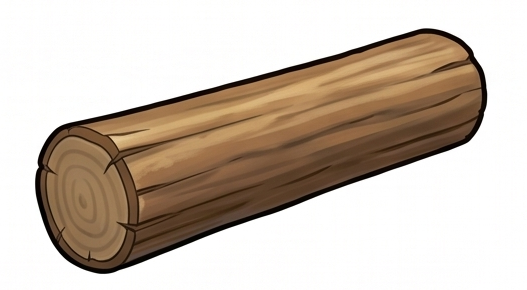
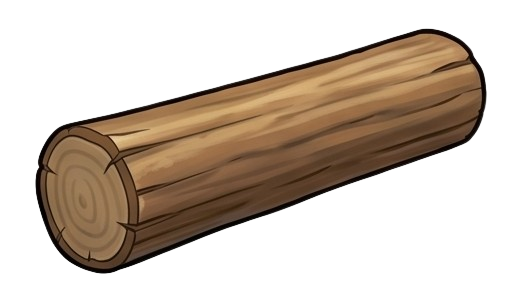
fix: stabilize bisan white porcelain completion

diff --git a/src/components/intro/IntroScreen.module.css b/src/components/intro/IntroScreen.module.css
@@ -49,153 +49,6 @@
   position: relative;
   z-index: 2;
   transform-style: preserve-3d;
-  overflow: hidden;
-}
-
-.card::before {
-  /* 낡은 서류철 질감 (은은한 잉크 텍스처 + 얼룩) */
-  content: '';
-  position: absolute;
-  inset: 0;
-  pointer-events: none;
-  background-image:
-    radial-gradient(rgba(74, 55, 40, 0.08) 1px, transparent 1px),
-    linear-gradient(to bottom, rgba(255, 255, 255, 0.15), rgba(0, 0, 0, 0)),
-    url('/assets/images/items/ink_background.png');
-  background-size: 26px 26px, 100% 100%, cover;
-  background-position: 0 0, 0 0, center;
-  opacity: 0.12;
-  mix-blend-mode: multiply;
-}
-
-.decor {
-  position: absolute;
-  inset: 0;
-  pointer-events: none;
-  z-index: 1;
-}
-
-.tapeTL,
-.tapeTR {
-  position: absolute;
-  width: 86px;
-  height: 34px;
-  background: rgba(255, 255, 255, 0.55);
-  border: 1px solid rgba(74, 55, 40, 0.18);
-  box-shadow: 0 10px 22px rgba(74, 55, 40, 0.12);
-  opacity: 0.9;
-}
-
-.tapeTL {
-  left: -12px;
-  top: 8px;
-  transform: rotate(-10deg);
-}
-
-.tapeTR {
-  right: -14px;
-  top: 18px;
-  transform: rotate(12deg);
-}
-
-.clip {
-  position: absolute;
-  right: 10px;
-  top: 62px;
-  width: 32px;
-  height: 38px;
-  border-radius: 10px 10px 16px 16px;
-  border: 3px solid rgba(74, 55, 40, 0.55);
-  background: rgba(74, 55, 40, 0.08);
-  transform: rotate(8deg);
-}
-
-.clip::after {
-  content: '';
-  position: absolute;
-  inset: 8px 7px auto 7px;
-  height: 14px;
-  border-radius: 10px;
-  border: 3px solid rgba(74, 55, 40, 0.45);
-  background: transparent;
-}
-
-.polaroid {
-  position: absolute;
-  left: 10px;
-  bottom: 8px;
-  width: 108px;
-  padding: 8px 8px 18px;
-  border-radius: 14px;
-  background: rgba(255, 255, 255, 0.92);
-  border: 2px solid rgba(74, 55, 40, 0.22);
-  box-shadow: 0 14px 30px rgba(74, 55, 40, 0.18);
-  transform: rotate(-6deg);
-}
-
-.polaroid img {
-  width: 100%;
-  height: 72px;
-  object-fit: cover;
-  border-radius: 10px;
-  border: 1px solid rgba(74, 55, 40, 0.18);
-  display: block;
-}
-
-.polaroidCap {
-  margin-top: 6px;
-  font-size: 10px;
-  font-weight: 900;
-  letter-spacing: -0.1px;
-  opacity: 0.8;
-  text-align: center;
-}
-
-.topSecret {
-  position: absolute;
-  left: 12px;
-  top: 10px;
-  padding: 6px 10px;
-  border-radius: 999px;
-  background: rgba(217, 83, 79, 0.92);
-  color: white;
-  font-weight: 900;
-  font-size: 11px;
-  letter-spacing: 0.6px;
-  box-shadow: 0 10px 24px rgba(217, 83, 79, 0.22), 0 10px 26px rgba(74, 55, 40, 0.18);
-  transform: rotate(-8deg);
-}
-
-.header {
-  position: relative;
-  z-index: 2;
-  display: flex;
-  gap: 10px;
-  align-items: center;
-}
-
-.emblem {
-  width: 44px;
-  height: 44px;
-  border-radius: 16px;
-  border: 2px solid rgba(74, 55, 40, 0.25);
-  background: rgba(244, 235, 217, 0.55);
-  display: grid;
-  place-items: center;
-  box-shadow: 0 10px 22px rgba(74, 55, 40, 0.12);
-}
-
-.secretTitle {
-  font-size: 20px;
-  font-weight: 900;
-  letter-spacing: -0.4px;
-}
-
-.secretSub {
-  margin-top: 2px;
-  font-size: 12px;
-  font-weight: 900;
-  opacity: 0.78;
 }
 
 .noteOpen {
@@ -240,26 +93,6 @@
   box-shadow: 0 14px 34px rgba(217, 83, 79, 0.22), 0 18px 44px rgba(74, 55, 40, 0.22);
   animation: pulse 1.2s ease-in-out infinite;
   transition: transform 120ms ease, box-shadow 160ms ease;
-  position: relative;
-  overflow: hidden;
-  display: inline-flex;
-  align-items: center;
-  justify-content: center;
-  gap: 10px;
-}
-
-.startBtn::after {
-  /* Shine 효과 */
-  content: '';
-  position: absolute;
-  top: -20%;
-  left: -35%;
-  width: 40%;
-  height: 140%;
-  background: linear-gradient(to right, rgba(255, 255, 255, 0), rgba(255, 255, 255, 0.38), rgba(255, 255, 255, 0));
-  transform: rotate(18deg);
-  animation: shine 1.9s ease-in-out infinite;
-  pointer-events: none;
 }
 
 .startBtn:hover {
@@ -268,25 +101,6 @@
 
 .startBtn:active {
   transform: translateY(1px);
-}
-
-.startIcon {
-  display: inline-flex;
-  align-items: center;
-  justify-content: center;
-  width: 36px;
-  height: 36px;
-  border-radius: 999px;
-  background: rgba(255, 255, 255, 0.18);
-  border: 1px solid rgba(255, 255, 255, 0.25);
-}
-
-.startHint {
-  margin-top: 10px;
-  font-size: 12px;
-  font-weight: 900;
-  opacity: 0.8;
-  text-shadow: 0 8px 18px rgba(74, 55, 40, 0.12);
 }
 
 .title {
@@ -496,23 +310,5 @@
   100% {
     transform: perspective(900px) rotateY(0deg) translateX(0);
     opacity: 1;
-  }
-}
-
-@keyframes shine {
-  0% {
-    transform: translateX(-120%) rotate(18deg);
-    opacity: 0;
-  }
-  30% {
-    opacity: 1;
-  }
-  60% {
-    transform: translateX(420%) rotate(18deg);
-    opacity: 0;
-  }
-  100% {
-    transform: translateX(420%) rotate(18deg);
-    opacity: 0;
   }
 }

diff --git a/src/components/intro/IntroScreen.tsx b/src/components/intro/IntroScreen.tsx
@@ -92,38 +92,7 @@ export default function IntroScreen() {
       >
         {step === 1 && (
           <>
-            {/* 장식 레이어(극비 서류철 / 다꾸 느낌) */}
-            <div className={styles.decor} aria-hidden="true">
-              <div className={styles.tapeTL} />
-              <div className={styles.tapeTR} />
-              <div className={styles.clip} />
-              <div className={styles.polaroid}>
-                <img src="/assets/images/relic_bridge_3d.png" alt="" draggable={false} />
-                <div className={styles.polaroidCap}>현장 사진</div>
-              </div>
-              <div className={styles.topSecret}>TOP SECRET</div>
-            </div>
-
-            <div className={styles.header}>
-              <div className={styles.emblem} aria-hidden="true">
-                {/* 나침반/방패 느낌 간단 SVG */}
-                <svg width="44" height="44" viewBox="0 0 64 64">
-                  <path
-                    d="M32 4l20 8v18c0 14-9 26-20 30C21 56 12 44 12 30V12l20-8Z"
-                    fill="rgba(244,235,217,0.9)"
-                    stroke="rgba(74,55,40,0.65)"
-                    strokeWidth="3"
-                    strokeLinejoin="round"
-                  />
-                  <circle cx="32" cy="28" r="12" fill="rgba(74,55,40,0.10)" stroke="rgba(74,55,40,0.55)" strokeWidth="3" />
-                  <path d="M32 18l6 12-6 8-6-8 6-12Z" fill="rgba(217,83,79,0.85)" stroke="rgba(74,55,40,0.55)" strokeWidth="2" />
-                </svg>
-              </div>
-              <div>
-                <div className={styles.secretTitle}>극비 역사 일기장</div>
-                <div className={styles.secretSub}>{title}</div>
-              </div>
-            </div>
+            <div className={styles.title}>{title}</div>
             {!showForm ? (
               <div className={styles.startStage}>
                 <button
@@ -152,18 +121,8 @@ export default function IntroScreen() {
                     }, 620);
                   }}
                 >
-                  <span className={styles.startIcon} aria-hidden="true">
-                    {/* 돋보기 아이콘 */}
-                    <svg width="22" height="22" viewBox="0 0 24 24">
-                      <path
-                        d="M10.5 3a7.5 7.5 0 105.02 13.06l3.2 3.2a1 1 0 001.41-1.42l-3.2-3.2A7.5 7.5 0 0010.5 3zm0 2a5.5 5.5 0 110 11 5.5 5.5 0 010-11z"
-                        fill="currentColor"
-                      />
-                    </svg>
-                  </span>
                   시작하기
                 </button>
-                <div className={styles.startHint}>펼치는 순간 모험이 시작돼요!</div>
               </div>
             ) : (
               <>

diff --git a/src/components/minigames/Bisan/BisanGame.tsx b/src/components/minigames/Bisan/BisanGame.tsx
@@ -137,13 +137,15 @@ export default function BisanGame({ stageId, onComplete, regionData }: MinigameP
   });
   const [digState, setDigState] = useState(digItems);
   const [whiteFound, setWhiteFound] = useState(false);
+  const whiteFoundRef = useRef(false);
   const [glow, setGlow] = useState(false);
   const [resultModal, setResultModal] = useState(false);
   const allRevealed = digState.every((m) => m.revealed);
 
   const tapMound = (id: DigId) => {
     startIfNeeded();
-    if (phase !== 'DIG' || resultModal) return;
+    // UX: 백자 발견 직후에는 연출을 방해하지 않도록 입력 차단
+    if (phase !== 'DIG' || resultModal || whiteFoundRef.current || whiteFound) return;
     setDigState((prev) =>
       prev.map((m) => {
         if (m.id !== id) return m;
@@ -173,13 +175,21 @@ export default function BisanGame({ stageId, onComplete, regionData }: MinigameP
     if (!white?.revealed && !allRevealed) return;
     if (whiteFound) return;
 
+    // 즉시 입력 차단(연타로 인해 effect 타이머가 취소되는 문제 방지)
+    whiteFoundRef.current = true;
     setWhiteFound(true);
     setGlow(true);
     audio.playUrl('/assets/sounds/sfx_fanfare.mp3', 0.85);
     showToast("우와! 아주 희귀한 '고려 백자'를 찾았어요!", 1800);
+  }, [phase, digState, whiteFound, allRevealed, resultModal]);
+
+  // (핵심) 결과 모달 타이머는 digState 변화와 분리: whiteFound만 보고 1회 실행
+  useEffect(() => {
+    if (!whiteFound) return;
+    if (resultModal) return;
     const t = window.setTimeout(() => setResultModal(true), 900);
     return () => window.clearTimeout(t);
-  }, [phase, digState, whiteFound, allRevealed, resultModal]);
+  }, [whiteFound, resultModal]);
 
   return (
     <div className="w-full h-full p-2 text-ink flex flex-col relative">
@@ -323,10 +333,11 @@ export default function BisanGame({ stageId, onComplete, regionData }: MinigameP
                 <button
                   key={m.id}
                   type="button"
+                  disabled={whiteFound}
                   className={[
                     'absolute -translate-x-1/2 -translate-y-1/2 rounded-3xl border border-ink/25 shadow-md px-4 py-4 text-left touch-none select-none',
                     m.revealed ? 'bg-paper2/90' : 'bg-[#C7A98B]/90',
-                    m.revealed ? '' : 'hover:opacity-95 active:translate-y-[1px]',
+                    whiteFound ? 'cursor-not-allowed' : m.revealed ? '' : 'hover:opacity-95 active:translate-y-[1px]',
                     whiteFound && m.type === 'white' && m.revealed ? 'glowFx' : '',
                   ].join(' ')}
                   style={{ left: `${m.x}%`, top: `${m.y}%`, width: '160px' }}